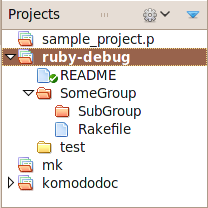
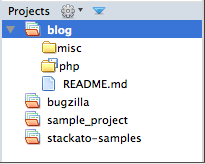
Project updates. More prefs per-project, etc. New screenshot.
git-svn-id: http://svn.openkomodo.com/repos/komododoc/trunk@9426 b87d16e7-d29f-4ee1-b5ec-817d645d335f

diff --git a/en-US/project.html b/en-US/project.html
@@ -52,13 +52,24 @@
   active and switch the <strong>Places</strong> pane above to the base
   directory of the project.</p>
   
-  <h3><a id="project_active"></a>Open vs. Active Projects</h3>
+  <h3><a id="project_active"></a>Open and Recent Projects</h3>
   
-  <p>Multiple projects can be opened in the Projects pane to give you
-  quick access to that project's file and directory links, but only one
-  project (per Komodo window) is "active" at a time.</p>
+  <p>By default, only one project can be open at a time in each Komodo
+  window. This active project is displayed at the top of the
+  Projects list in bold with recently used projects following.</p>
   
-  <p>If the active project has saved debugger settings, test plans,
+  <p>You can switch between projects by double clicking any in the
+  Recent Projects list, which can optionally close files belonging to
+  the current project and open open files from the next one. Komodo
+  takes a snapshot of which files are open when you close or switch
+  projects, so the workspace can be restored when you open it again.
+  This behavior is configurable in the <a
+  href="prefs.html#projects">Projects and Workspace</a> preferences.</p>
+  
+  <p>Another setting in the <a href="prefs.html#places">Places</a>
+  preferences lets you allow multiple open projects. With multiple
+  projects open, only one project (per Komodo window) is "active" at a
+  time. If the active project has saved debugger settings, test plans,
   library search paths, or mapped URI's, these settings will be enabled
   for all files that are part of that project.</p>
   
@@ -156,13 +167,21 @@
   preferences:</p>
   
       <ul>
+        
+        
         <li><a href="debugger.html#Debugging_Options">Debugging</a></li>
 
         <li><a href="unittest.html">Test Plan Configuration</a></li>
+        
+        <li><a href="prefs.html#Internationalization">Internationalization</a></li>
+        
+        <li><a href="prefs.html#Environment">Environment</a></li>
 
         <li><a href="prefs.html#lang_config">Languages</a></li>
 
         <li><a href="prefs.html#mapped_uris">Mapped URIs</a></li>
+        
+        <li><a href="prefs.html#syntax_checking">Syntax Checking</a></li>
       </ul>
   
 
